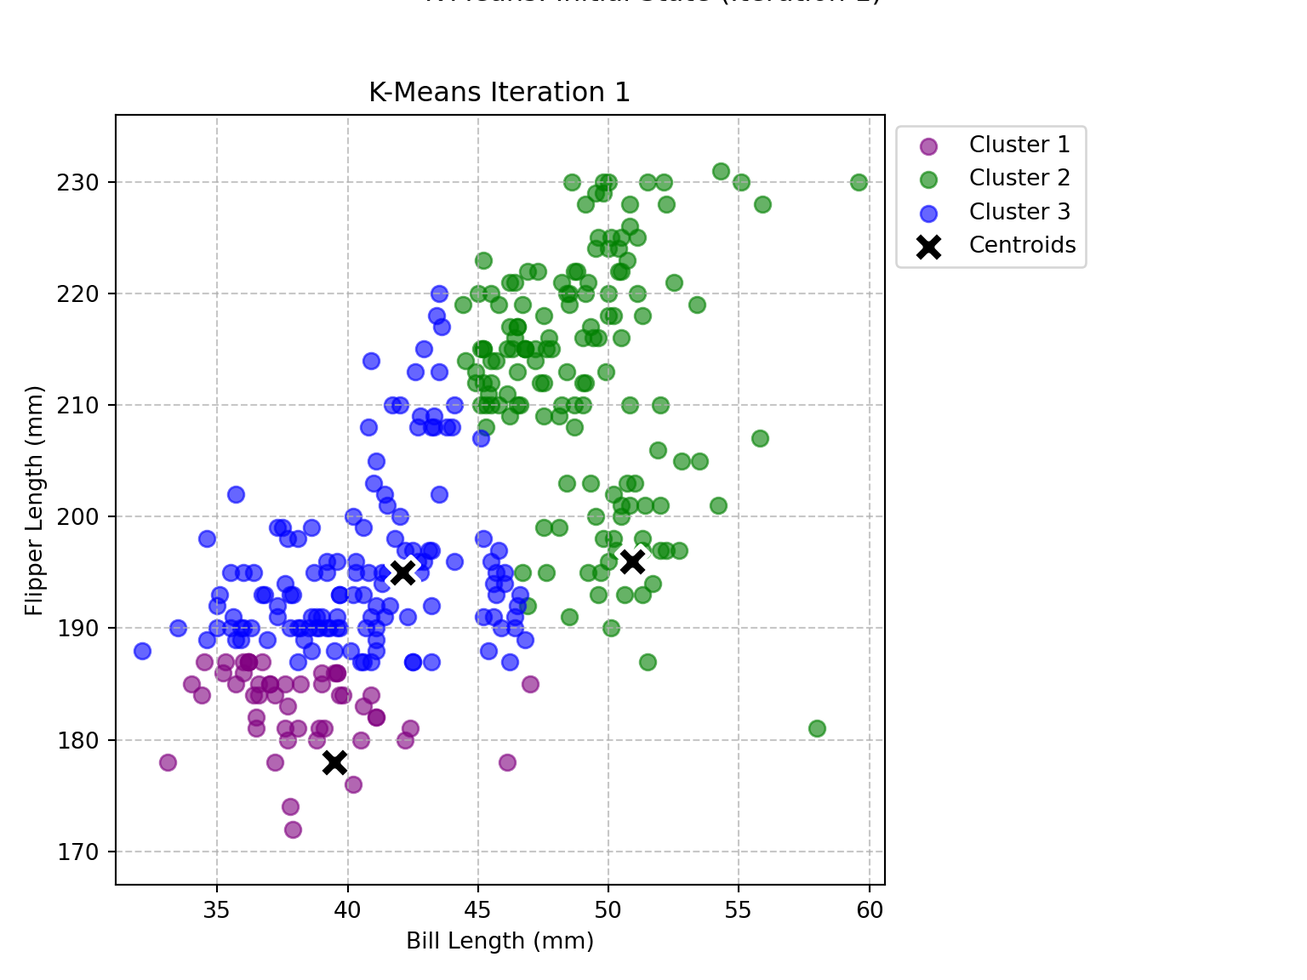
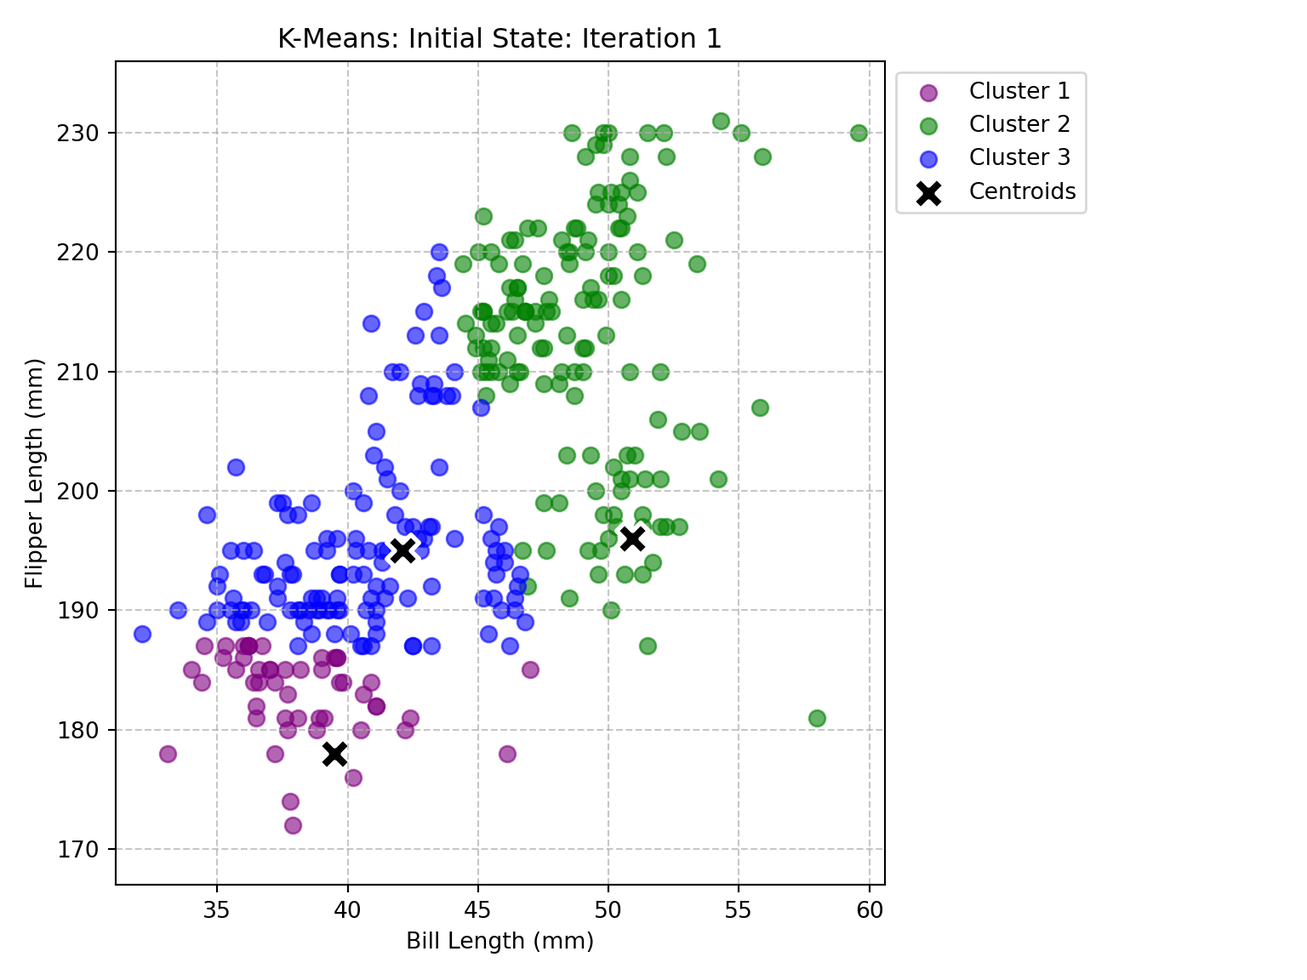
..

diff --git a/docs/projects/project4/index.html b/docs/projects/project4/index.html
@@ -461,61 +461,57 @@ Total iterations recorded: 10</code></pre>
 <div class="cell-output cell-output-stdout">
 <pre><code>K-Means converged after 10 iterations.</code></pre>
 </div>
-<div class="sourceCode cell-code" id="cb23"><pre class="sourceCode python code-with-copy"><code class="sourceCode python"><span id="cb23-1"><a href="#cb23-1" aria-hidden="true" tabindex="-1"></a><span class="co"># --- Visualization Part ---</span></span>
-<span id="cb23-2"><a href="#cb23-2" aria-hidden="true" tabindex="-1"></a><span class="co"># Set up the plot for animation</span></span>
-<span id="cb23-3"><a href="#cb23-3" aria-hidden="true" tabindex="-1"></a>fig, ax <span class="op">=</span> plt.subplots(figsize<span class="op">=</span>(<span class="dv">8</span>, <span class="dv">6</span>))</span>
-<span id="cb23-4"><a href="#cb23-4" aria-hidden="true" tabindex="-1"></a></span>
-<span id="cb23-5"><a href="#cb23-5" aria-hidden="true" tabindex="-1"></a><span class="co"># Define colors for clusters</span></span>
-<span id="cb23-6"><a href="#cb23-6" aria-hidden="true" tabindex="-1"></a>colors <span class="op">=</span> [<span class="st">'purple'</span>, <span class="st">'green'</span>, <span class="st">'blue'</span>, <span class="st">'orange'</span>, <span class="st">'red'</span>, <span class="st">'brown'</span>, <span class="st">'pink'</span>]</span>
-<span id="cb23-7"><a href="#cb23-7" aria-hidden="true" tabindex="-1"></a><span class="co"># Use unique colors up to K_MAX if you decide to make a single animation for different Ks later</span></span>
-<span id="cb23-8"><a href="#cb23-8" aria-hidden="true" tabindex="-1"></a><span class="co"># For now, K=3, so 3 colors are enough.</span></span>
-<span id="cb23-9"><a href="#cb23-9" aria-hidden="true" tabindex="-1"></a></span>
-<span id="cb23-10"><a href="#cb23-10" aria-hidden="true" tabindex="-1"></a><span class="co"># Helper function to update the plot for each frame</span></span>
-<span id="cb23-11"><a href="#cb23-11" aria-hidden="true" tabindex="-1"></a><span class="kw">def</span> update(frame):</span>
-<span id="cb23-12"><a href="#cb23-12" aria-hidden="true" tabindex="-1"></a>    ax.clear()</span>
-<span id="cb23-13"><a href="#cb23-13" aria-hidden="true" tabindex="-1"></a>    current_state <span class="op">=</span> iteration_states[frame]</span>
-<span id="cb23-14"><a href="#cb23-14" aria-hidden="true" tabindex="-1"></a>    current_centroids <span class="op">=</span> current_state[<span class="st">'centroids'</span>]</span>
-<span id="cb23-15"><a href="#cb23-15" aria-hidden="true" tabindex="-1"></a>    current_labels <span class="op">=</span> current_state[<span class="st">'labels'</span>]</span>
-<span id="cb23-16"><a href="#cb23-16" aria-hidden="true" tabindex="-1"></a>    iteration <span class="op">=</span> current_state[<span class="st">'iteration'</span>]</span>
-<span id="cb23-17"><a href="#cb23-17" aria-hidden="true" tabindex="-1"></a>    <span class="co"># Plot data points colored by cluster</span></span>
-<span id="cb23-18"><a href="#cb23-18" aria-hidden="true" tabindex="-1"></a>    <span class="cf">for</span> i <span class="kw">in</span> <span class="bu">range</span>(k_value):</span>
-<span id="cb23-19"><a href="#cb23-19" aria-hidden="true" tabindex="-1"></a>        points_in_cluster <span class="op">=</span> features.values[current_labels <span class="op">==</span> i]</span>
-<span id="cb23-20"><a href="#cb23-20" aria-hidden="true" tabindex="-1"></a>        ax.scatter(points_in_cluster[:, <span class="dv">0</span>], points_in_cluster[:, <span class="dv">1</span>],</span>
-<span id="cb23-21"><a href="#cb23-21" aria-hidden="true" tabindex="-1"></a>                   color<span class="op">=</span>colors[i], label<span class="op">=</span><span class="ss">f'Cluster </span><span class="sc">{</span>i<span class="op">+</span><span class="dv">1</span><span class="sc">}</span><span class="ss">'</span>, s<span class="op">=</span><span class="dv">50</span>, alpha<span class="op">=</span><span class="fl">0.6</span>)</span>
-<span id="cb23-22"><a href="#cb23-22" aria-hidden="true" tabindex="-1"></a>    <span class="co"># Plot centroids</span></span>
-<span id="cb23-23"><a href="#cb23-23" aria-hidden="true" tabindex="-1"></a>    ax.scatter(current_centroids[:, <span class="dv">0</span>], current_centroids[:, <span class="dv">1</span>],</span>
-<span id="cb23-24"><a href="#cb23-24" aria-hidden="true" tabindex="-1"></a>               marker<span class="op">=</span><span class="st">'X'</span>, s<span class="op">=</span><span class="dv">200</span>, color<span class="op">=</span><span class="st">'black'</span>, edgecolor<span class="op">=</span><span class="st">'white'</span>, linewidth<span class="op">=</span><span class="dv">2</span>, label<span class="op">=</span><span class="st">'Centroids'</span>)</span>
-<span id="cb23-25"><a href="#cb23-25" aria-hidden="true" tabindex="-1"></a>    ax.set_title(<span class="ss">f"K-Means Iteration </span><span class="sc">{</span>iteration <span class="op">+</span> <span class="dv">1</span><span class="sc">}</span><span class="ss">"</span>)</span>
-<span id="cb23-26"><a href="#cb23-26" aria-hidden="true" tabindex="-1"></a>    ax.set_xlabel(<span class="st">"Bill Length (mm)"</span>)</span>
-<span id="cb23-27"><a href="#cb23-27" aria-hidden="true" tabindex="-1"></a>    ax.set_ylabel(<span class="st">"Flipper Length (mm)"</span>)</span>
-<span id="cb23-28"><a href="#cb23-28" aria-hidden="true" tabindex="-1"></a>    ax.legend(loc<span class="op">=</span><span class="st">'upper left'</span>, bbox_to_anchor<span class="op">=</span>(<span class="dv">1</span>,<span class="dv">1</span>)) <span class="co"># Place legend outside</span></span>
-<span id="cb23-29"><a href="#cb23-29" aria-hidden="true" tabindex="-1"></a>    ax.grid(<span class="va">True</span>, linestyle<span class="op">=</span><span class="st">'--'</span>, alpha<span class="op">=</span><span class="fl">0.7</span>)</span>
-<span id="cb23-30"><a href="#cb23-30" aria-hidden="true" tabindex="-1"></a>    ax.set_xlim(features[<span class="st">'bill_length_mm'</span>].<span class="bu">min</span>() <span class="op">-</span> <span class="dv">1</span>, features[<span class="st">'bill_length_mm'</span>].<span class="bu">max</span>() <span class="op">+</span> <span class="dv">1</span>)</span>
-<span id="cb23-31"><a href="#cb23-31" aria-hidden="true" tabindex="-1"></a>    ax.set_ylim(features[<span class="st">'flipper_length_mm'</span>].<span class="bu">min</span>() <span class="op">-</span> <span class="dv">5</span>, features[<span class="st">'flipper_length_mm'</span>].<span class="bu">max</span>() <span class="op">+</span> <span class="dv">5</span>)</span>
-<span id="cb23-32"><a href="#cb23-32" aria-hidden="true" tabindex="-1"></a></span>
+<div class="sourceCode cell-code" id="cb23"><pre class="sourceCode python code-with-copy"><code class="sourceCode python"><span id="cb23-1"><a href="#cb23-1" aria-hidden="true" tabindex="-1"></a><span class="co"># --- Visualization Part (Revised to generate separate plots) ---</span></span>
+<span id="cb23-2"><a href="#cb23-2" aria-hidden="true" tabindex="-1"></a><span class="co"># Ensure all necessary imports are at the top of the entire code block</span></span>
+<span id="cb23-3"><a href="#cb23-3" aria-hidden="true" tabindex="-1"></a><span class="co"># import numpy as np # Already present in the full block</span></span>
+<span id="cb23-4"><a href="#cb23-4" aria-hidden="true" tabindex="-1"></a><span class="co"># import pandas as pd # Already present</span></span>
+<span id="cb23-5"><a href="#cb23-5" aria-hidden="true" tabindex="-1"></a><span class="co"># import matplotlib.pyplot as plt # Already present</span></span>
+<span id="cb23-6"><a href="#cb23-6" aria-hidden="true" tabindex="-1"></a><span class="co"># import matplotlib.animation as animation # Already present</span></span>
+<span id="cb23-7"><a href="#cb23-7" aria-hidden="true" tabindex="-1"></a><span class="co"># from IPython.display import HTML # Already present</span></span>
+<span id="cb23-8"><a href="#cb23-8" aria-hidden="true" tabindex="-1"></a></span>
+<span id="cb23-9"><a href="#cb23-9" aria-hidden="true" tabindex="-1"></a><span class="co"># IMPORTANT: The K-Means functions and the call to run_kmeans(features, k_value, random_state=42)</span></span>
+<span id="cb23-10"><a href="#cb23-10" aria-hidden="true" tabindex="-1"></a><span class="co"># should still be present ABOVE this visualization section within the SAME code block</span></span>
+<span id="cb23-11"><a href="#cb23-11" aria-hidden="true" tabindex="-1"></a><span class="co"># as they provide the 'iteration_states' variable.</span></span>
+<span id="cb23-12"><a href="#cb23-12" aria-hidden="true" tabindex="-1"></a></span>
+<span id="cb23-13"><a href="#cb23-13" aria-hidden="true" tabindex="-1"></a><span class="co"># Define colors for clusters</span></span>
+<span id="cb23-14"><a href="#cb23-14" aria-hidden="true" tabindex="-1"></a>colors <span class="op">=</span> [<span class="st">'purple'</span>, <span class="st">'green'</span>, <span class="st">'blue'</span>, <span class="st">'orange'</span>, <span class="st">'red'</span>, <span class="st">'brown'</span>, <span class="st">'pink'</span>]</span>
+<span id="cb23-15"><a href="#cb23-15" aria-hidden="true" tabindex="-1"></a></span>
+<span id="cb23-16"><a href="#cb23-16" aria-hidden="true" tabindex="-1"></a><span class="co"># Helper function to create and update a single plot</span></span>
+<span id="cb23-17"><a href="#cb23-17" aria-hidden="true" tabindex="-1"></a><span class="kw">def</span> plot_kmeans_state(state, k_value, features, colors, title_prefix<span class="op">=</span><span class="st">"K-Means"</span>):</span>
+<span id="cb23-18"><a href="#cb23-18" aria-hidden="true" tabindex="-1"></a>    fig, ax <span class="op">=</span> plt.subplots(figsize<span class="op">=</span>(<span class="dv">8</span>, <span class="dv">6</span>)) <span class="co"># Create a NEW figure and axes for each plot</span></span>
+<span id="cb23-19"><a href="#cb23-19" aria-hidden="true" tabindex="-1"></a></span>
+<span id="cb23-20"><a href="#cb23-20" aria-hidden="true" tabindex="-1"></a>    current_centroids <span class="op">=</span> state[<span class="st">'centroids'</span>]</span>
+<span id="cb23-21"><a href="#cb23-21" aria-hidden="true" tabindex="-1"></a>    current_labels <span class="op">=</span> state[<span class="st">'labels'</span>]</span>
+<span id="cb23-22"><a href="#cb23-22" aria-hidden="true" tabindex="-1"></a>    iteration <span class="op">=</span> state[<span class="st">'iteration'</span>]</span>
+<span id="cb23-23"><a href="#cb23-23" aria-hidden="true" tabindex="-1"></a></span>
+<span id="cb23-24"><a href="#cb23-24" aria-hidden="true" tabindex="-1"></a>    <span class="co"># Plot data points colored by cluster</span></span>
+<span id="cb23-25"><a href="#cb23-25" aria-hidden="true" tabindex="-1"></a>    <span class="cf">for</span> i <span class="kw">in</span> <span class="bu">range</span>(k_value):</span>
+<span id="cb23-26"><a href="#cb23-26" aria-hidden="true" tabindex="-1"></a>        points_in_cluster <span class="op">=</span> features.values[current_labels <span class="op">==</span> i]</span>
+<span id="cb23-27"><a href="#cb23-27" aria-hidden="true" tabindex="-1"></a>        ax.scatter(points_in_cluster[:, <span class="dv">0</span>], points_in_cluster[:, <span class="dv">1</span>],</span>
+<span id="cb23-28"><a href="#cb23-28" aria-hidden="true" tabindex="-1"></a>                   color<span class="op">=</span>colors[i], label<span class="op">=</span><span class="ss">f'Cluster </span><span class="sc">{</span>i<span class="op">+</span><span class="dv">1</span><span class="sc">}</span><span class="ss">'</span>, s<span class="op">=</span><span class="dv">50</span>, alpha<span class="op">=</span><span class="fl">0.6</span>)</span>
+<span id="cb23-29"><a href="#cb23-29" aria-hidden="true" tabindex="-1"></a>    </span>
+<span id="cb23-30"><a href="#cb23-30" aria-hidden="true" tabindex="-1"></a>    <span class="co"># Plot centroids</span></span>
+<span id="cb23-31"><a href="#cb23-31" aria-hidden="true" tabindex="-1"></a>    ax.scatter(current_centroids[:, <span class="dv">0</span>], current_centroids[:, <span class="dv">1</span>],</span>
+<span id="cb23-32"><a href="#cb23-32" aria-hidden="true" tabindex="-1"></a>               marker<span class="op">=</span><span class="st">'X'</span>, s<span class="op">=</span><span class="dv">200</span>, color<span class="op">=</span><span class="st">'black'</span>, edgecolor<span class="op">=</span><span class="st">'white'</span>, linewidth<span class="op">=</span><span class="dv">2</span>, label<span class="op">=</span><span class="st">'Centroids'</span>)</span>
 <span id="cb23-33"><a href="#cb23-33" aria-hidden="true" tabindex="-1"></a></span>
-<span id="cb23-34"><a href="#cb23-34" aria-hidden="true" tabindex="-1"></a><span class="co"># Create the animation</span></span>
-<span id="cb23-35"><a href="#cb23-35" aria-hidden="true" tabindex="-1"></a><span class="co"># frames = len(iteration_states)</span></span>
-<span id="cb23-36"><a href="#cb23-36" aria-hidden="true" tabindex="-1"></a><span class="co"># If your environment supports GIF, use this:</span></span>
-<span id="cb23-37"><a href="#cb23-37" aria-hidden="true" tabindex="-1"></a><span class="co"># anim = animation.FuncAnimation(fig, update, frames=frames, interval=800, repeat=False)</span></span>
-<span id="cb23-38"><a href="#cb23-38" aria-hidden="true" tabindex="-1"></a><span class="co"># plt.close() # Prevents extra static plot from appearing</span></span>
-<span id="cb23-39"><a href="#cb23-39" aria-hidden="true" tabindex="-1"></a></span>
-<span id="cb23-40"><a href="#cb23-40" aria-hidden="true" tabindex="-1"></a><span class="co"># To save as GIF or display in Quarto, additional setup might be needed</span></span>
-<span id="cb23-41"><a href="#cb23-41" aria-hidden="true" tabindex="-1"></a><span class="co"># For now, let's just show the final plot and perhaps a few intermediate ones as static images</span></span>
-<span id="cb23-42"><a href="#cb23-42" aria-hidden="true" tabindex="-1"></a><span class="co"># or simplify to just showing the animation object which Quarto might render.</span></span>
+<span id="cb23-34"><a href="#cb23-34" aria-hidden="true" tabindex="-1"></a>    ax.set_title(<span class="ss">f"</span><span class="sc">{</span>title_prefix<span class="sc">}</span><span class="ss">: Iteration </span><span class="sc">{</span>iteration <span class="op">+</span> <span class="dv">1</span><span class="sc">}</span><span class="ss">"</span>)</span>
+<span id="cb23-35"><a href="#cb23-35" aria-hidden="true" tabindex="-1"></a>    ax.set_xlabel(<span class="st">"Bill Length (mm)"</span>)</span>
+<span id="cb23-36"><a href="#cb23-36" aria-hidden="true" tabindex="-1"></a>    ax.set_ylabel(<span class="st">"Flipper Length (mm)"</span>)</span>
+<span id="cb23-37"><a href="#cb23-37" aria-hidden="true" tabindex="-1"></a>    ax.legend(loc<span class="op">=</span><span class="st">'upper left'</span>, bbox_to_anchor<span class="op">=</span>(<span class="dv">1</span>,<span class="dv">1</span>)) <span class="co"># Place legend outside</span></span>
+<span id="cb23-38"><a href="#cb23-38" aria-hidden="true" tabindex="-1"></a>    ax.grid(<span class="va">True</span>, linestyle<span class="op">=</span><span class="st">'--'</span>, alpha<span class="op">=</span><span class="fl">0.7</span>)</span>
+<span id="cb23-39"><a href="#cb23-39" aria-hidden="true" tabindex="-1"></a>    ax.set_xlim(features[<span class="st">'bill_length_mm'</span>].<span class="bu">min</span>() <span class="op">-</span> <span class="dv">1</span>, features[<span class="st">'bill_length_mm'</span>].<span class="bu">max</span>() <span class="op">+</span> <span class="dv">1</span>)</span>
+<span id="cb23-40"><a href="#cb23-40" aria-hidden="true" tabindex="-1"></a>    ax.set_ylim(features[<span class="st">'flipper_length_mm'</span>].<span class="bu">min</span>() <span class="op">-</span> <span class="dv">5</span>, features[<span class="st">'flipper_length_mm'</span>].<span class="bu">max</span>() <span class="op">+</span> <span class="dv">5</span>)</span>
+<span id="cb23-41"><a href="#cb23-41" aria-hidden="true" tabindex="-1"></a>    plt.tight_layout(rect<span class="op">=</span>[<span class="dv">0</span>, <span class="dv">0</span>, <span class="fl">0.85</span>, <span class="dv">1</span>]) <span class="co"># Adjust layout to make room for legend</span></span>
+<span id="cb23-42"><a href="#cb23-42" aria-hidden="true" tabindex="-1"></a>    plt.show() <span class="co"># Display this specific plot</span></span>
 <span id="cb23-43"><a href="#cb23-43" aria-hidden="true" tabindex="-1"></a></span>
-<span id="cb23-44"><a href="#cb23-44" aria-hidden="true" tabindex="-1"></a><span class="co"># As Quarto environments can vary in animation rendering, let's output a few key frames as static plots</span></span>
-<span id="cb23-45"><a href="#cb23-45" aria-hidden="true" tabindex="-1"></a><span class="co"># and mention the possibility of GIF.y</span></span>
-<span id="cb23-46"><a href="#cb23-46" aria-hidden="true" tabindex="-1"></a><span class="bu">print</span>(<span class="st">"</span><span class="ch">\n</span><span class="st">Generating static plots for key K-Means iterations:"</span>)</span></code><button title="Copy to Clipboard" class="code-copy-button"><i class="bi"></i></button></pre></div>
+<span id="cb23-44"><a href="#cb23-44" aria-hidden="true" tabindex="-1"></a><span class="co"># --- Plotting Static Frames ---</span></span>
+<span id="cb23-45"><a href="#cb23-45" aria-hidden="true" tabindex="-1"></a><span class="bu">print</span>(<span class="st">"</span><span class="ch">\n</span><span class="st">Generating static plots for key K-Means iterations:"</span>)</span></code><button title="Copy to Clipboard" class="code-copy-button"><i class="bi"></i></button></pre></div>
 <div class="cell-output cell-output-stdout">
 <pre><code>
 Generating static plots for key K-Means iterations:</code></pre>
 </div>
 <div class="sourceCode cell-code" id="cb25"><pre class="sourceCode python code-with-copy"><code class="sourceCode python"><span id="cb25-1"><a href="#cb25-1" aria-hidden="true" tabindex="-1"></a><span class="co"># Plot initial state (Iteration 1)</span></span>
-<span id="cb25-2"><a href="#cb25-2" aria-hidden="true" tabindex="-1"></a>update(<span class="dv">0</span>)</span>
-<span id="cb25-3"><a href="#cb25-3" aria-hidden="true" tabindex="-1"></a>plt.suptitle(<span class="st">"K-Means: Initial State (Iteration 1)"</span>, y<span class="op">=</span><span class="fl">1.02</span>) <span class="co"># Add super title above plot title</span></span>
-<span id="cb25-4"><a href="#cb25-4" aria-hidden="true" tabindex="-1"></a>plt.tight_layout(rect<span class="op">=</span>[<span class="dv">0</span>, <span class="dv">0</span>, <span class="fl">0.85</span>, <span class="dv">1</span>]) <span class="co"># Adjust layout to make room for legend</span></span>
-<span id="cb25-5"><a href="#cb25-5" aria-hidden="true" tabindex="-1"></a>plt.show()</span></code><button title="Copy to Clipboard" class="code-copy-button"><i class="bi"></i></button></pre></div>
+<span id="cb25-2"><a href="#cb25-2" aria-hidden="true" tabindex="-1"></a>plot_kmeans_state(iteration_states[<span class="dv">0</span>], k_value, features, colors, <span class="st">"K-Means: Initial State"</span>)</span></code><button title="Copy to Clipboard" class="code-copy-button"><i class="bi"></i></button></pre></div>
 <div class="cell-output-display">
 <div>
 <figure class="figure">
@@ -523,29 +519,26 @@ Generating static plots for key K-Means iterations:</code></pre>
 </figure>
 </div>
 </div>
-<div class="sourceCode cell-code" id="cb26"><pre class="sourceCode python code-with-copy"><code class="sourceCode python"><span id="cb26-1"><a href="#cb26-1" aria-hidden="true" tabindex="-1"></a><span class="co"># Plot an intermediate state (e.g., halfway through)</span></span>
+<div class="sourceCode cell-code" id="cb26"><pre class="sourceCode python code-with-copy"><code class="sourceCode python"><span id="cb26-1"><a href="#cb26-1" aria-hidden="true" tabindex="-1"></a><span class="co"># Plot an intermediate state</span></span>
 <span id="cb26-2"><a href="#cb26-2" aria-hidden="true" tabindex="-1"></a><span class="cf">if</span> <span class="bu">len</span>(iteration_states) <span class="op">&gt;</span> <span class="dv">1</span>:</span>
-<span id="cb26-3"><a href="#cb26-3" aria-hidden="true" tabindex="-1"></a>    mid_frame_idx <span class="op">=</span> (<span class="bu">len</span>(iteration_states) <span class="op">//</span> <span class="dv">2</span>) <span class="op">-</span><span class="dv">1</span> <span class="cf">if</span> <span class="bu">len</span>(iteration_states) <span class="op">&gt;</span> <span class="dv">2</span> <span class="cf">else</span> <span class="dv">0</span> <span class="co"># Adjust for 0-indexing and minimum 2 states</span></span>
-<span id="cb26-4"><a href="#cb26-4" aria-hidden="true" tabindex="-1"></a>    update(mid_frame_idx)</span>
-<span id="cb26-5"><a href="#cb26-5" aria-hidden="true" tabindex="-1"></a>    plt.suptitle(<span class="ss">f"K-Means: Intermediate State (Iteration </span><span class="sc">{</span>mid_frame_idx <span class="op">+</span> <span class="dv">1</span><span class="sc">}</span><span class="ss">)"</span>, y<span class="op">=</span><span class="fl">1.02</span>)</span>
-<span id="cb26-6"><a href="#cb26-6" aria-hidden="true" tabindex="-1"></a>    plt.tight_layout(rect<span class="op">=</span>[<span class="dv">0</span>, <span class="dv">0</span>, <span class="fl">0.85</span>, <span class="dv">1</span>])</span>
-<span id="cb26-7"><a href="#cb26-7" aria-hidden="true" tabindex="-1"></a>    plt.show()</span></code><button title="Copy to Clipboard" class="code-copy-button"><i class="bi"></i></button></pre></div>
+<span id="cb26-3"><a href="#cb26-3" aria-hidden="true" tabindex="-1"></a>    mid_frame_idx <span class="op">=</span> (<span class="bu">len</span>(iteration_states) <span class="op">//</span> <span class="dv">2</span>) <span class="cf">if</span> <span class="bu">len</span>(iteration_states) <span class="op">&gt;</span> <span class="dv">1</span> <span class="cf">else</span> <span class="dv">0</span></span>
+<span id="cb26-4"><a href="#cb26-4" aria-hidden="true" tabindex="-1"></a>    <span class="cf">if</span> mid_frame_idx <span class="op">&gt;=</span> <span class="bu">len</span>(iteration_states):</span>
+<span id="cb26-5"><a href="#cb26-5" aria-hidden="true" tabindex="-1"></a>        mid_frame_idx <span class="op">=</span> <span class="bu">len</span>(iteration_states) <span class="op">-</span> <span class="dv">1</span></span>
+<span id="cb26-6"><a href="#cb26-6" aria-hidden="true" tabindex="-1"></a>    </span>
+<span id="cb26-7"><a href="#cb26-7" aria-hidden="true" tabindex="-1"></a>    plot_kmeans_state(iteration_states[mid_frame_idx], k_value, features, colors, <span class="ss">f"K-Means: Intermediate State (Iteration </span><span class="sc">{</span>mid_frame_idx <span class="op">+</span> <span class="dv">1</span><span class="sc">}</span><span class="ss">)"</span>)</span></code><button title="Copy to Clipboard" class="code-copy-button"><i class="bi"></i></button></pre></div>
 <div class="cell-output-display">
 <div>
 <figure class="figure">
-<p><img src="index_files/figure-html/unnamed-chunk-3-2.png" class="img-fluid figure-img" width="672"></p>
+<p><img src="index_files/figure-html/unnamed-chunk-3-2.png" class="img-fluid figure-img" width="768"></p>
 </figure>
 </div>
 </div>
 <div class="sourceCode cell-code" id="cb27"><pre class="sourceCode python code-with-copy"><code class="sourceCode python"><span id="cb27-1"><a href="#cb27-1" aria-hidden="true" tabindex="-1"></a><span class="co"># Plot the final state (Converged Iteration)</span></span>
-<span id="cb27-2"><a href="#cb27-2" aria-hidden="true" tabindex="-1"></a>update(<span class="bu">len</span>(iteration_states) <span class="op">-</span> <span class="dv">1</span>)</span>
-<span id="cb27-3"><a href="#cb27-3" aria-hidden="true" tabindex="-1"></a>plt.suptitle(<span class="ss">f"K-Means: Final Converged State (Iteration </span><span class="sc">{</span><span class="bu">len</span>(iteration_states)<span class="sc">}</span><span class="ss">)"</span>, y<span class="op">=</span><span class="fl">1.02</span>)</span>
-<span id="cb27-4"><a href="#cb27-4" aria-hidden="true" tabindex="-1"></a>plt.tight_layout(rect<span class="op">=</span>[<span class="dv">0</span>, <span class="dv">0</span>, <span class="fl">0.85</span>, <span class="dv">1</span>])</span>
-<span id="cb27-5"><a href="#cb27-5" aria-hidden="true" tabindex="-1"></a>plt.show()</span></code><button title="Copy to Clipboard" class="code-copy-button"><i class="bi"></i></button></pre></div>
+<span id="cb27-2"><a href="#cb27-2" aria-hidden="true" tabindex="-1"></a>plot_kmeans_state(iteration_states[<span class="bu">len</span>(iteration_states) <span class="op">-</span> <span class="dv">1</span>], k_value, features, colors, <span class="ss">f"K-Means: Final Converged State (Iteration </span><span class="sc">{</span><span class="bu">len</span>(iteration_states)<span class="sc">}</span><span class="ss">)"</span>)</span></code><button title="Copy to Clipboard" class="code-copy-button"><i class="bi"></i></button></pre></div>
 <div class="cell-output-display">
 <div>
 <figure class="figure">
-<p><img src="index_files/figure-html/unnamed-chunk-3-3.png" class="img-fluid figure-img" width="672"></p>
+<p><img src="index_files/figure-html/unnamed-chunk-3-3.png" class="img-fluid figure-img" width="768"></p>
 </figure>
 </div>
 </div>

diff --git a/docs/projects.html b/docs/projects.html
@@ -219,7 +219,7 @@ window.Quarto = {
 
 </div></a></div>
 
-<div class="g-col-1" data-index="1" data-listing-date-sort="1749538800000" data-listing-file-modified-sort="1749552971345" data-listing-date-modified-sort="NaN" data-listing-reading-time-sort="14" data-listing-word-count-sort="2683">
+<div class="g-col-1" data-index="1" data-listing-date-sort="1749538800000" data-listing-file-modified-sort="1749553621478" data-listing-date-modified-sort="NaN" data-listing-reading-time-sort="14" data-listing-word-count-sort="2668">
 <a href="./projects/project4/index.html" class="quarto-grid-link">
 <div class="quarto-grid-item card h-100 card-left">
 
